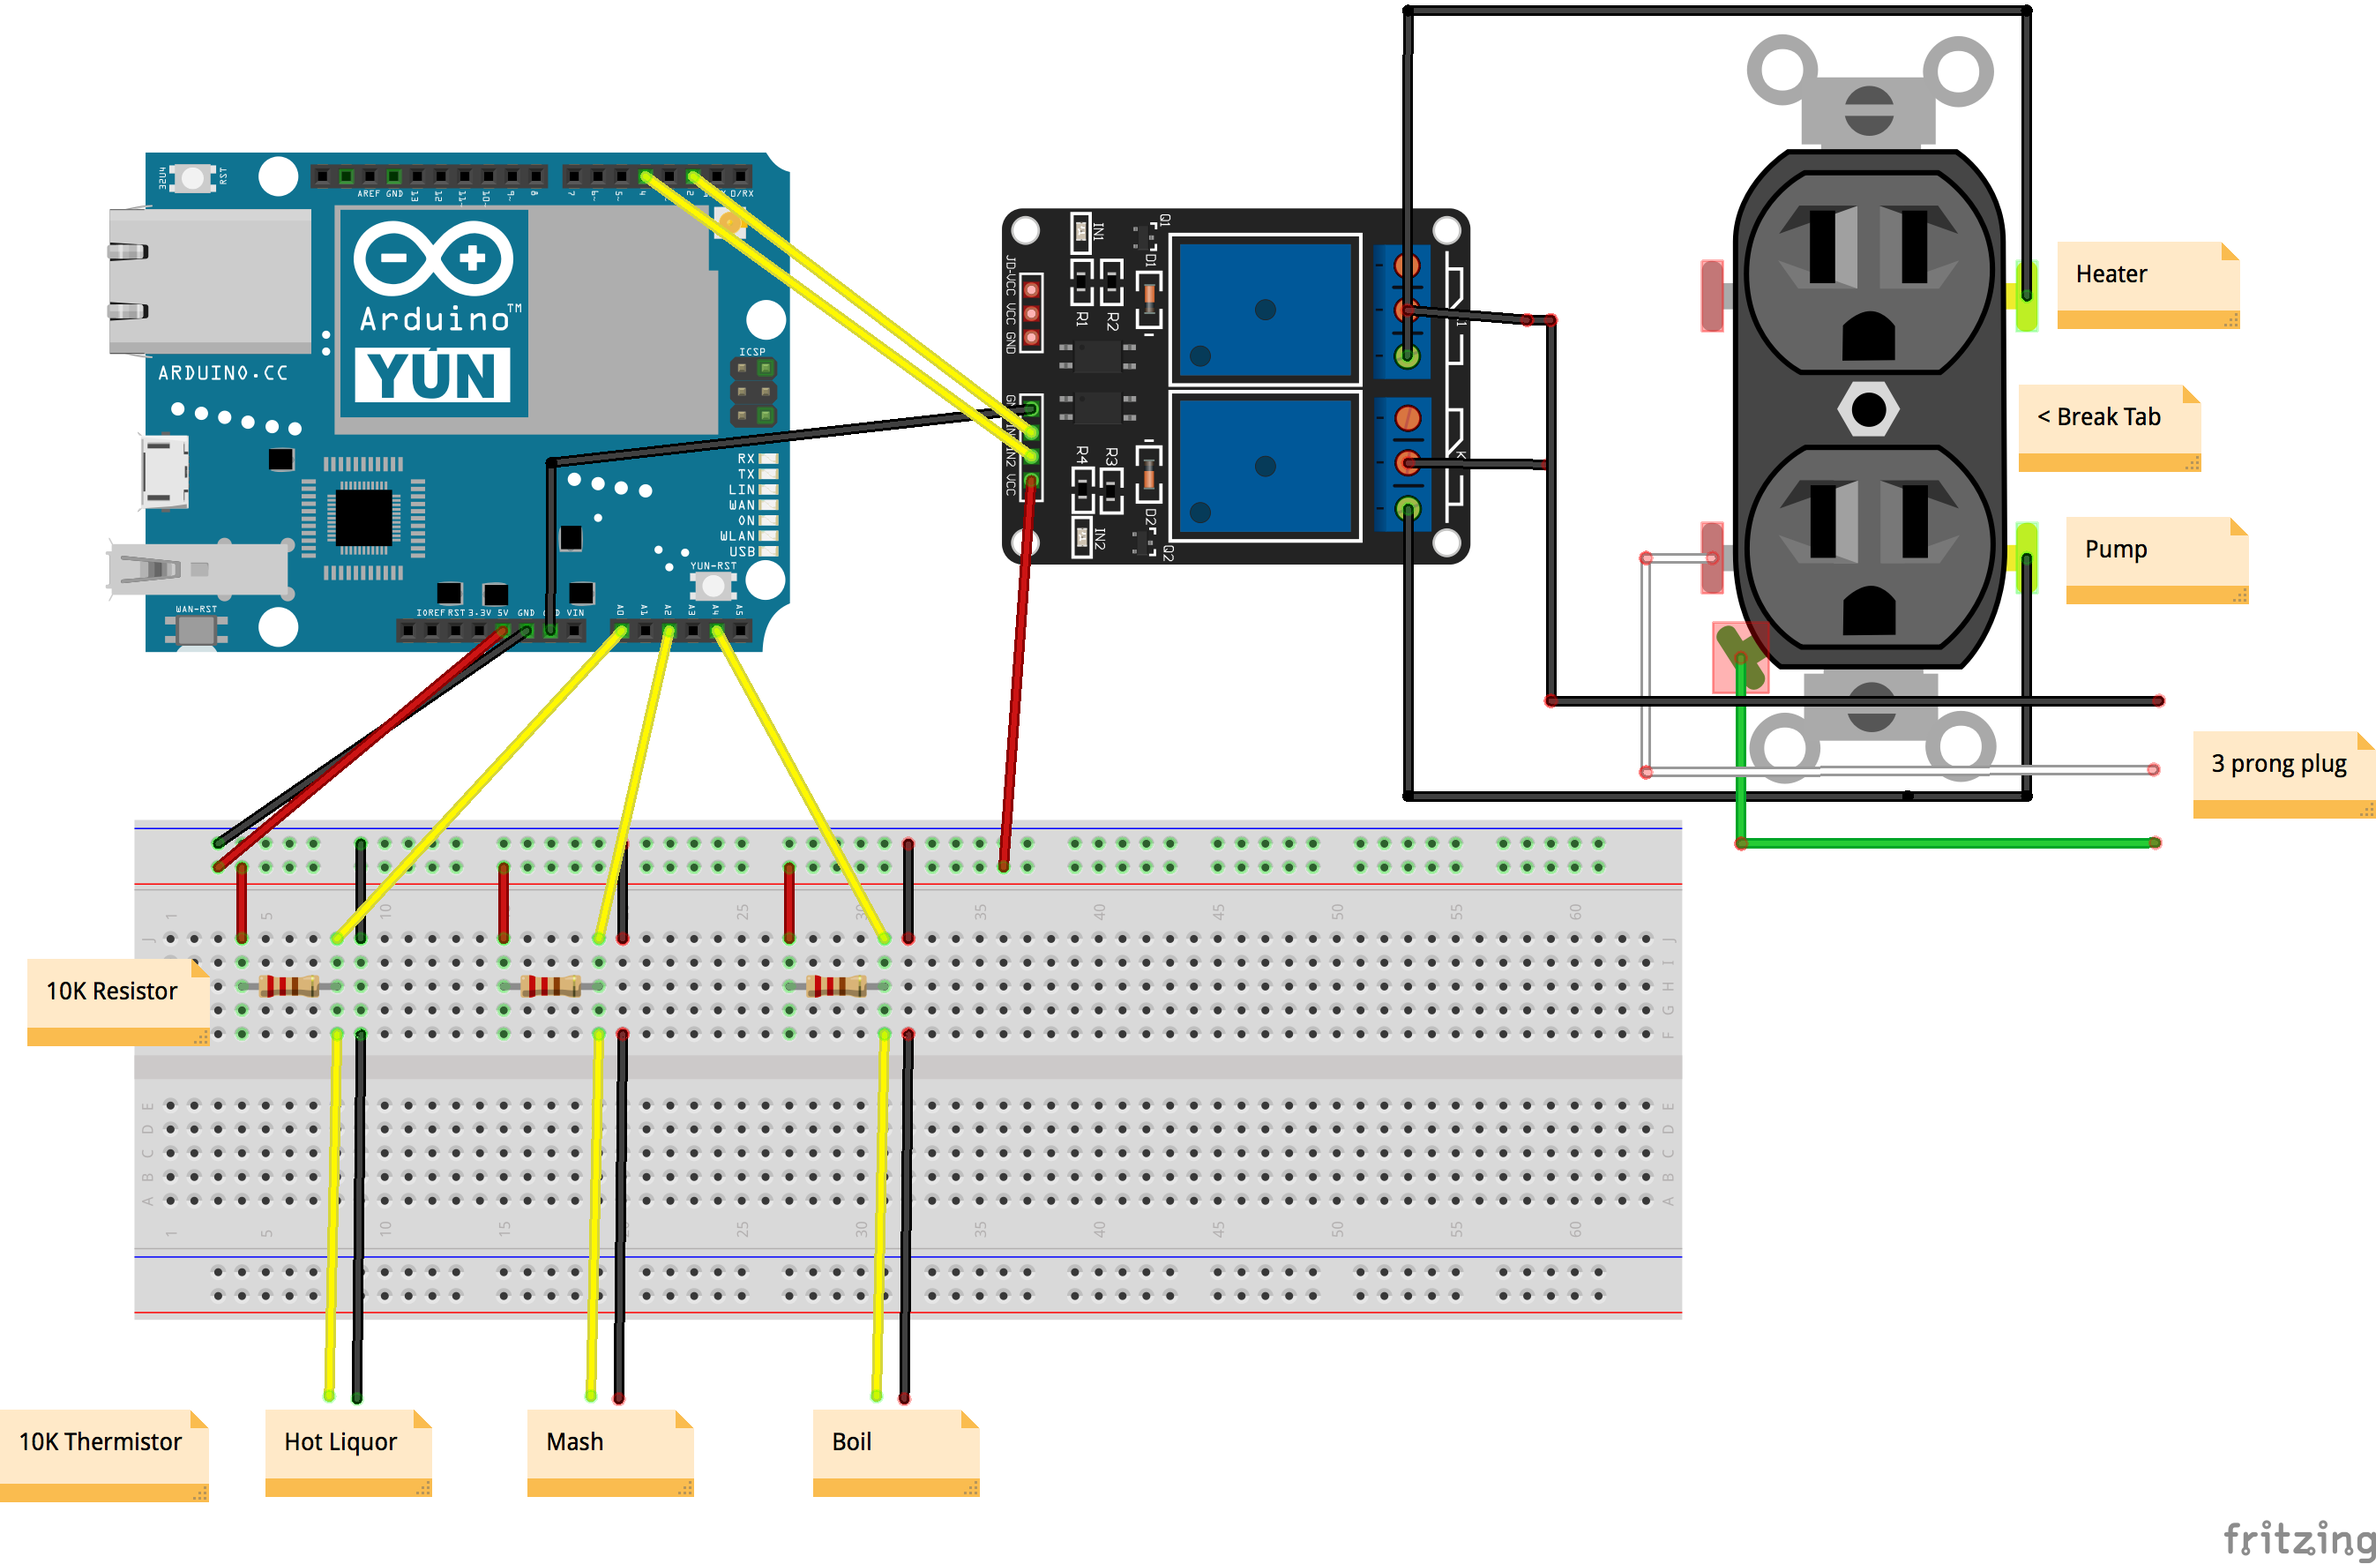
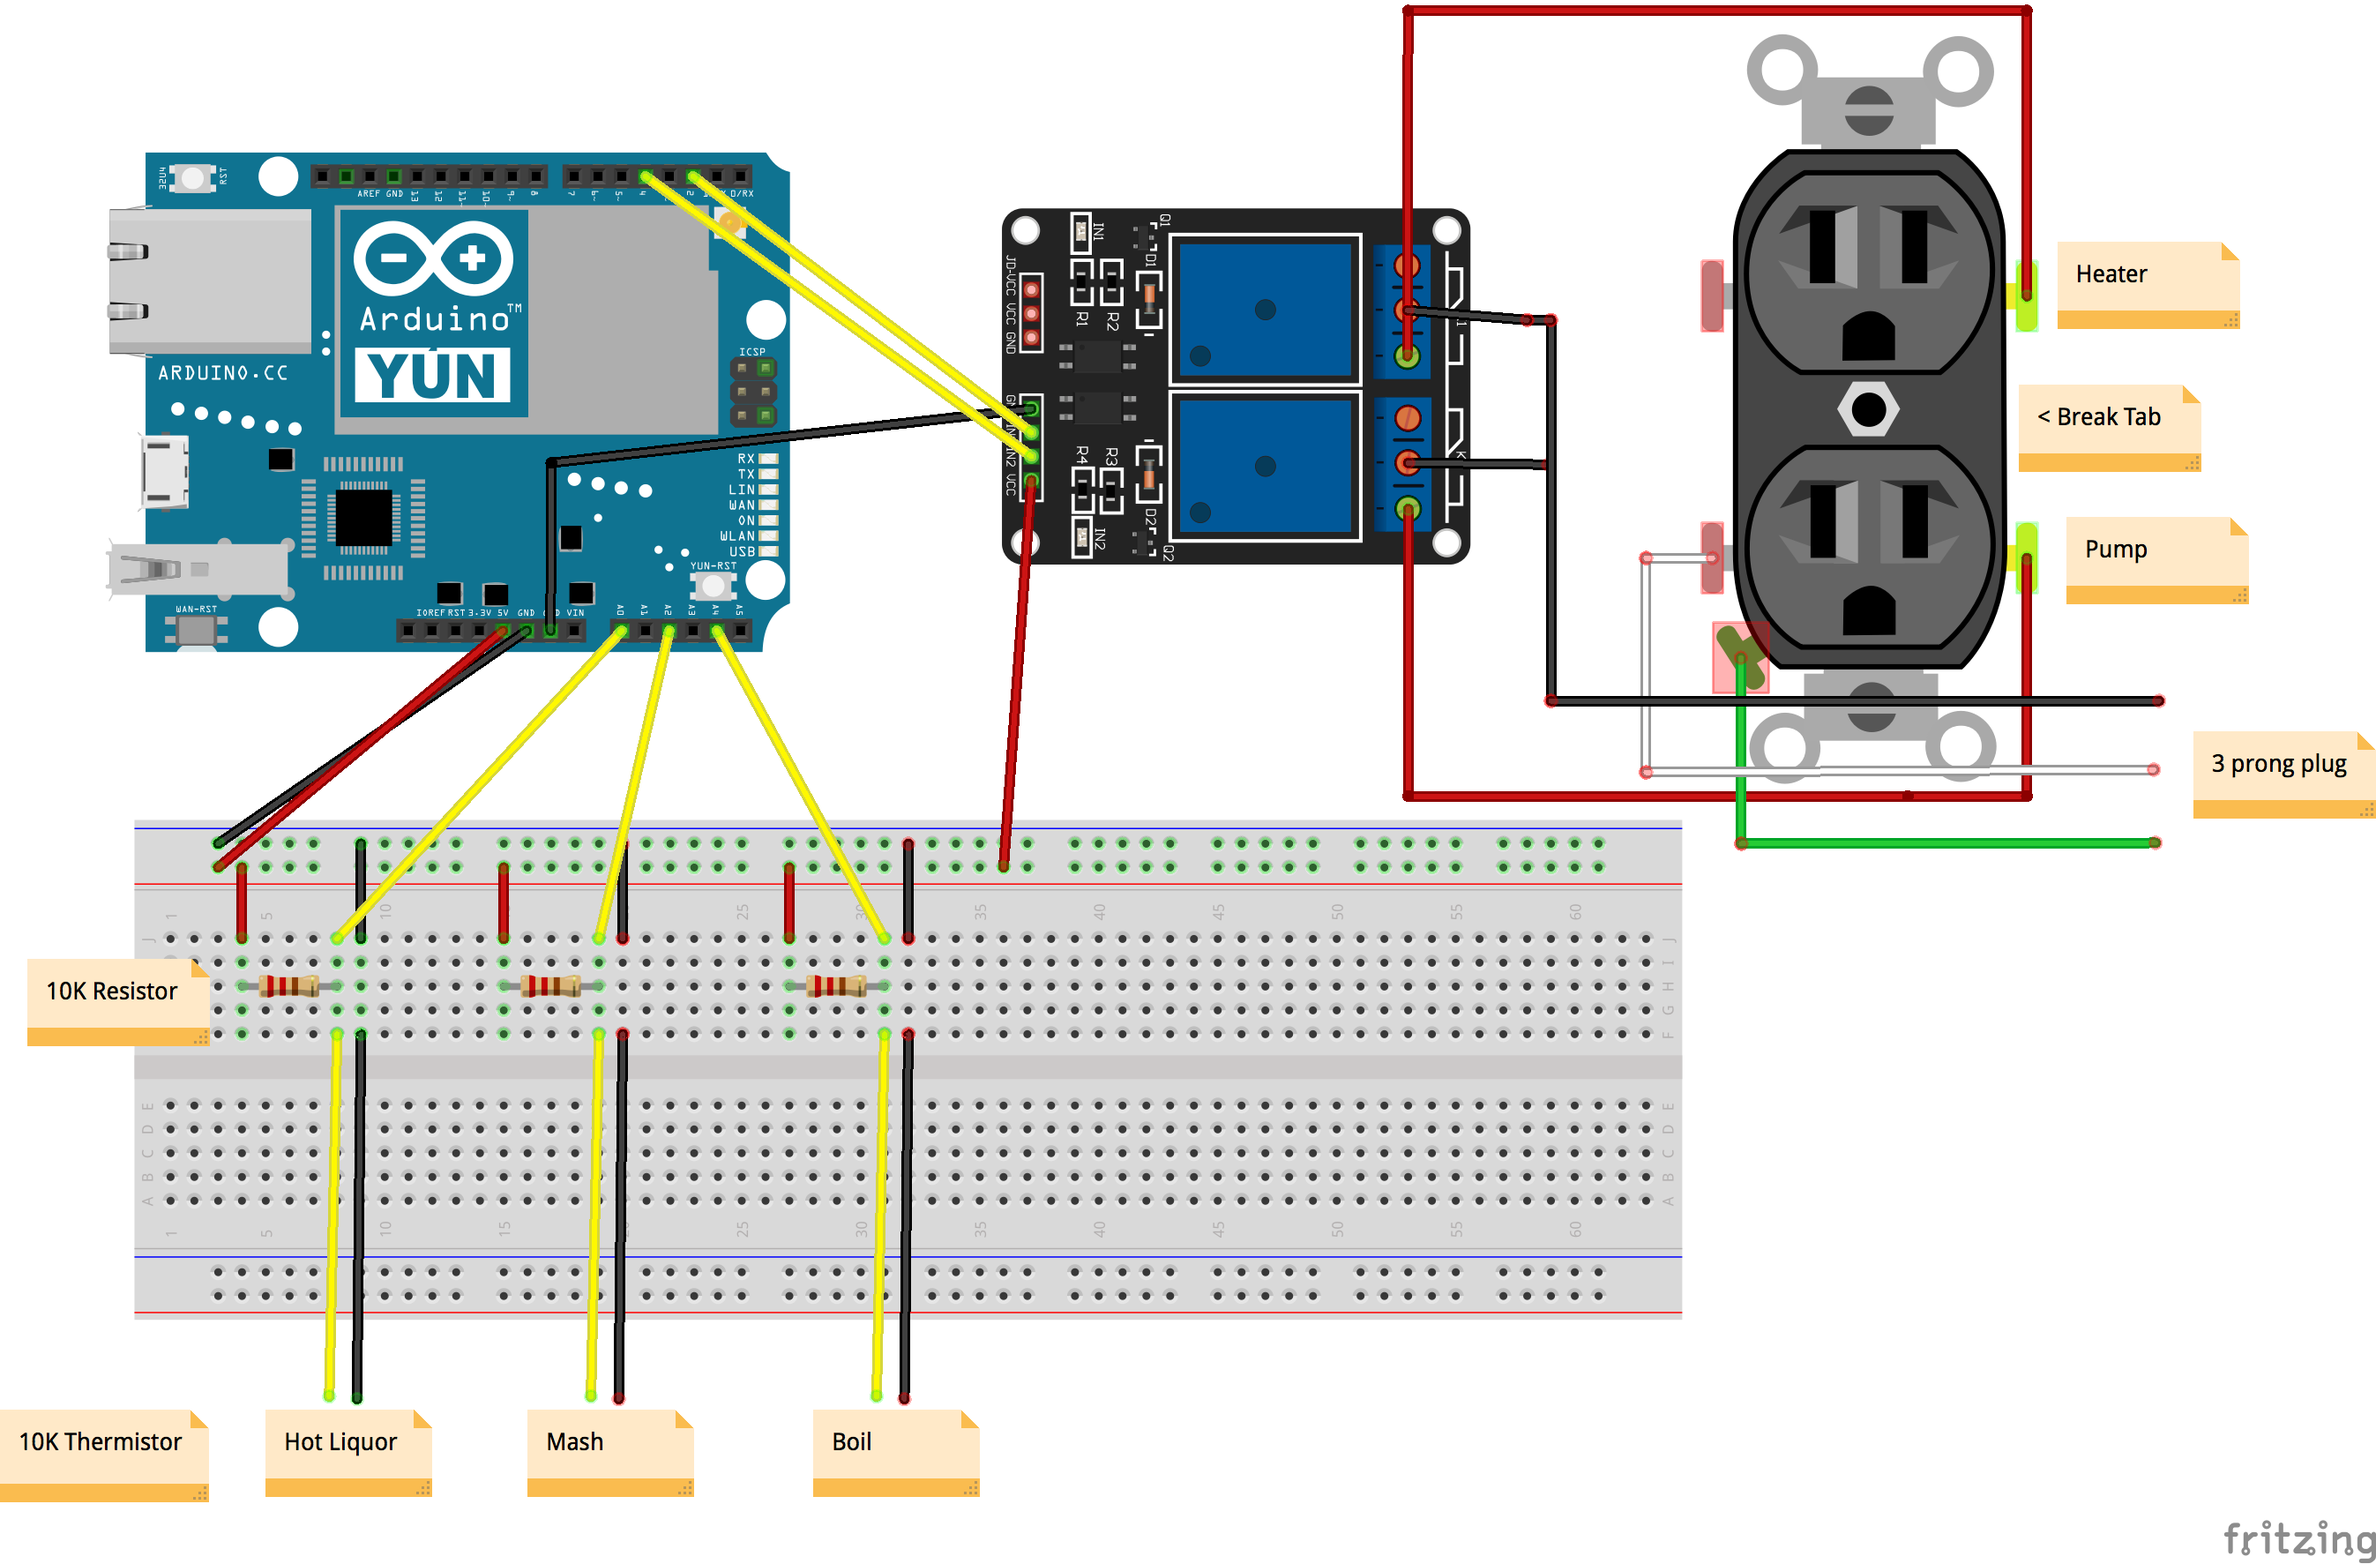
Added SSR diagram

Changed region(s): [[0.5924, 0.0, 0.8731, 0.1861], [0.5924, 0.3723, 0.8731, 0.5274]]

diff --git a/README.md b/README.md
@@ -56,6 +56,10 @@ npm run build
 
 [Download the Fritzing Diagram here](src/assets/BrewBench-wiring-diagram.fzz)
 
+<img src="src/assets/img/BrewBench-wiring-diagram-SSR.png?raw=true" alt="BrewBench Wiring Diagram" align="center" />
+
+[Download the Fritzing Diagram here](src/assets/BrewBench-wiring-diagram-SSR.fzz)
+
 <img src="src/assets/img/brewbench-wiredup.jpg?raw=true" alt="BrewBench wired up" align="center" />
 
 ## Thanks
